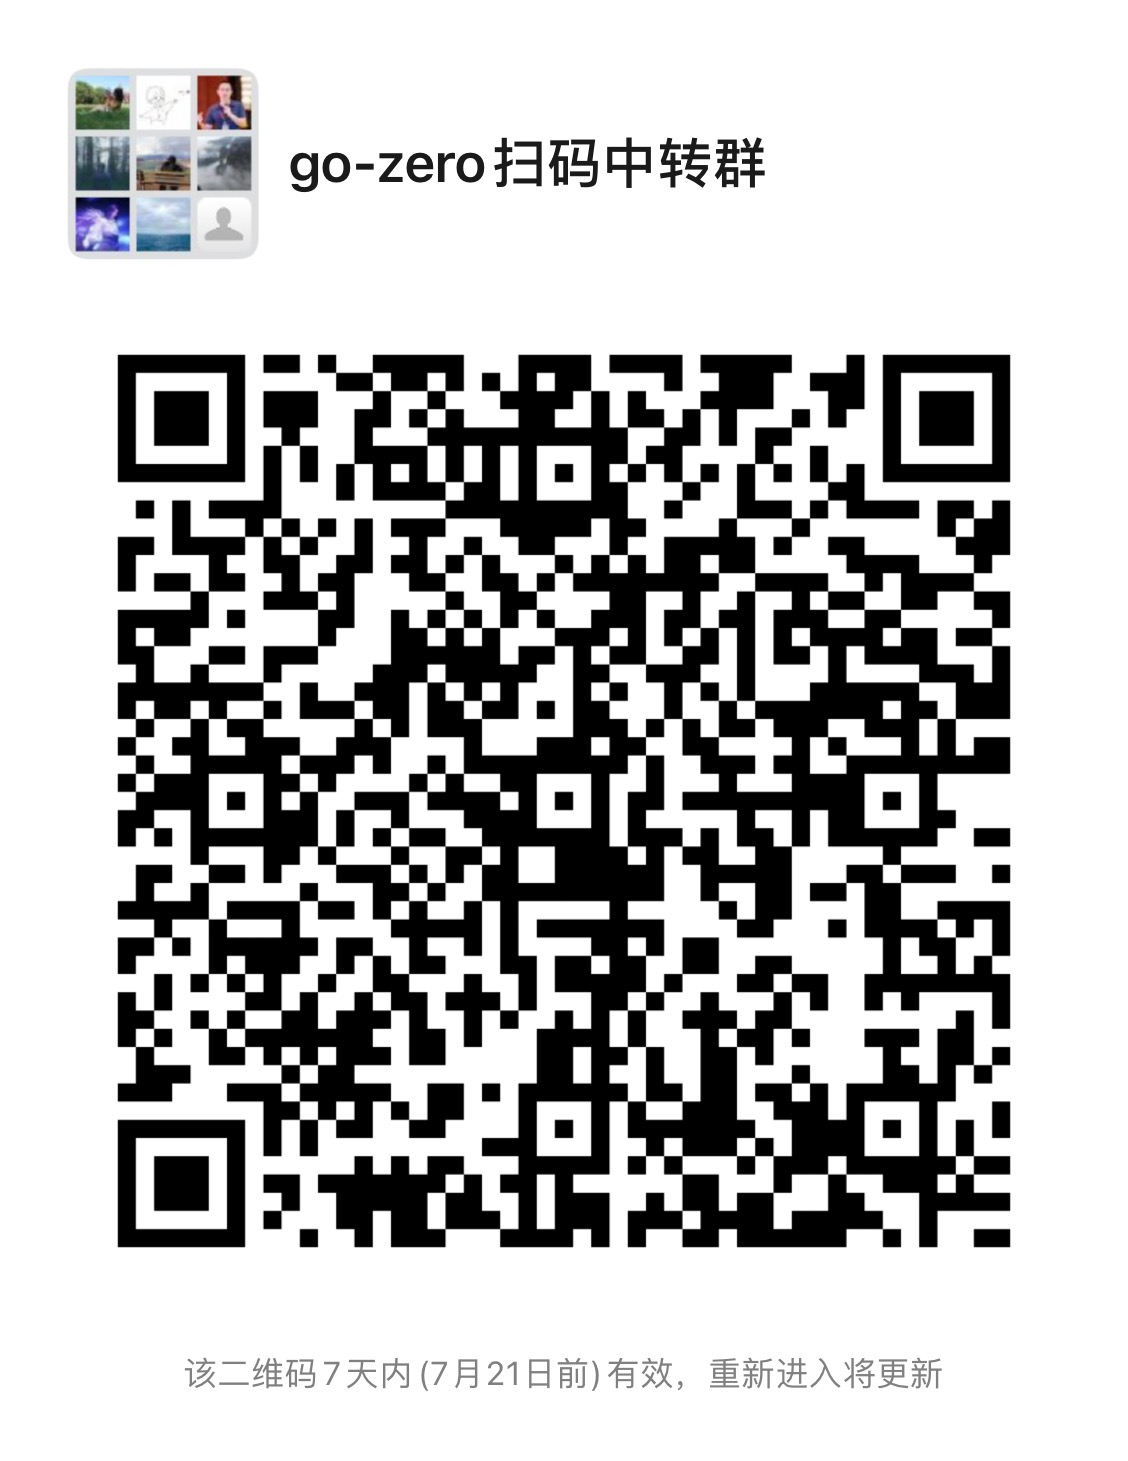
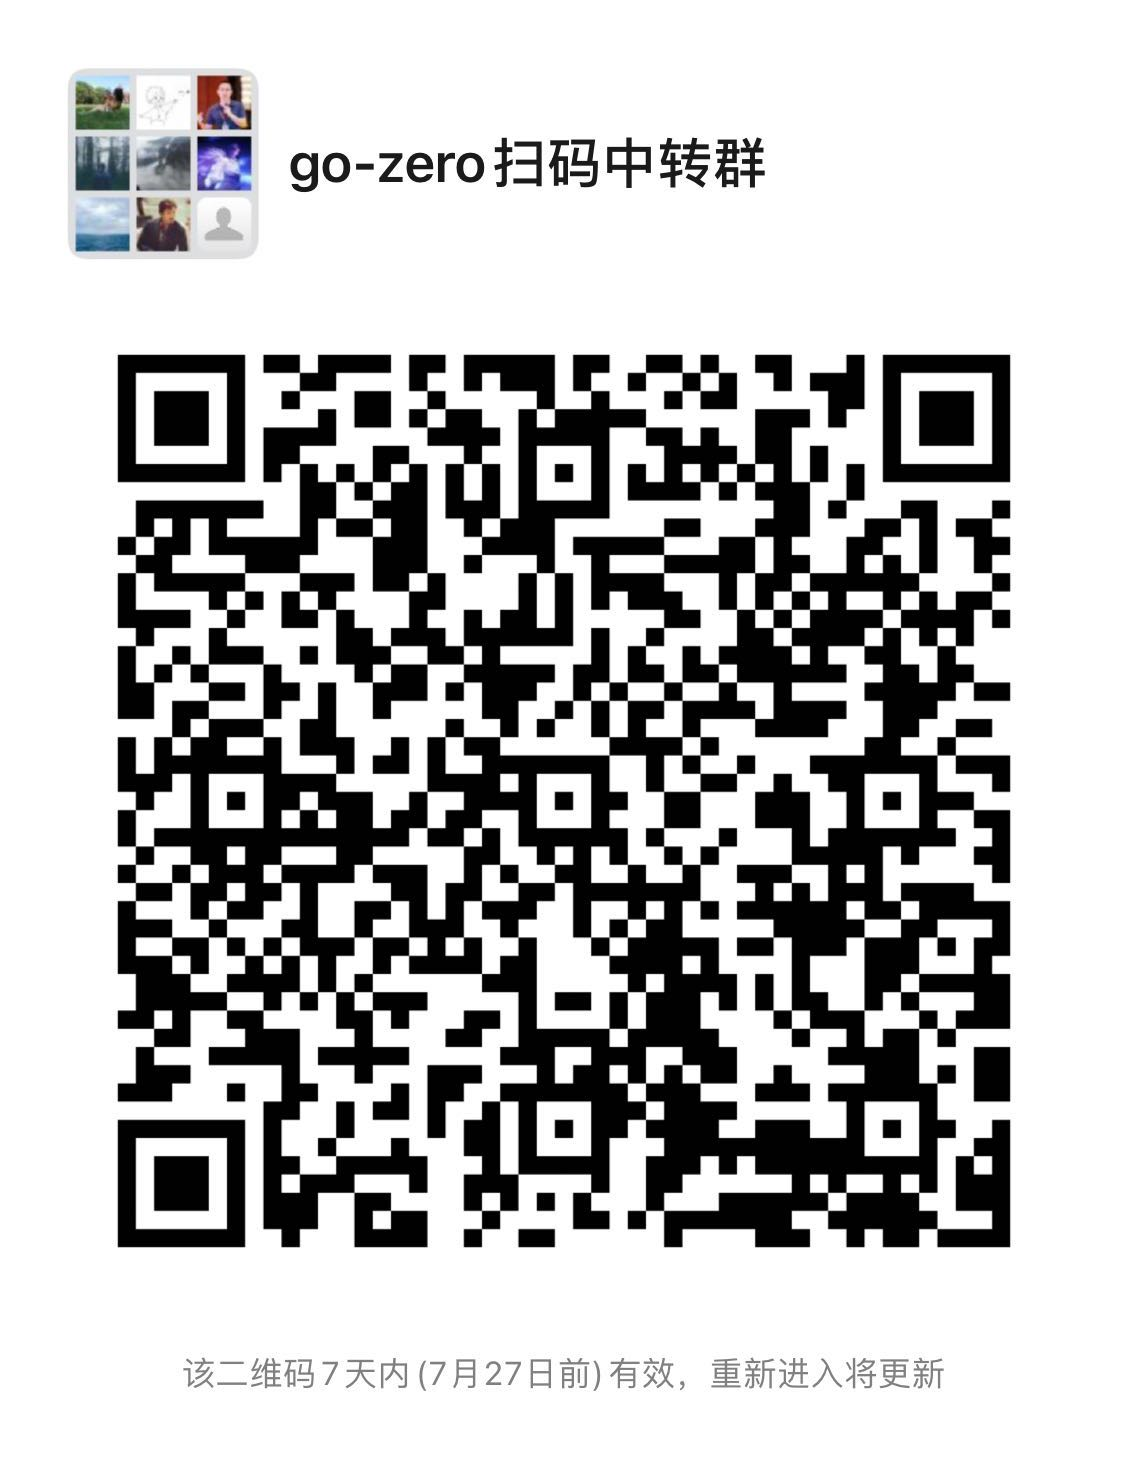
update qr code

diff --git a/readme.md b/readme.md
@@ -37,4 +37,4 @@
 
 ## 3. 微信交流群
 
-<img src="https://gitee.com/kevwan/static/raw/master/doc/images/wechat.jpg" alt="wechat" width="300" />
+<img src="https://raw.githubusercontent.com/tal-tech/zero-doc/main/doc/images/wechat.jpg" alt="wechat" width="300" />
